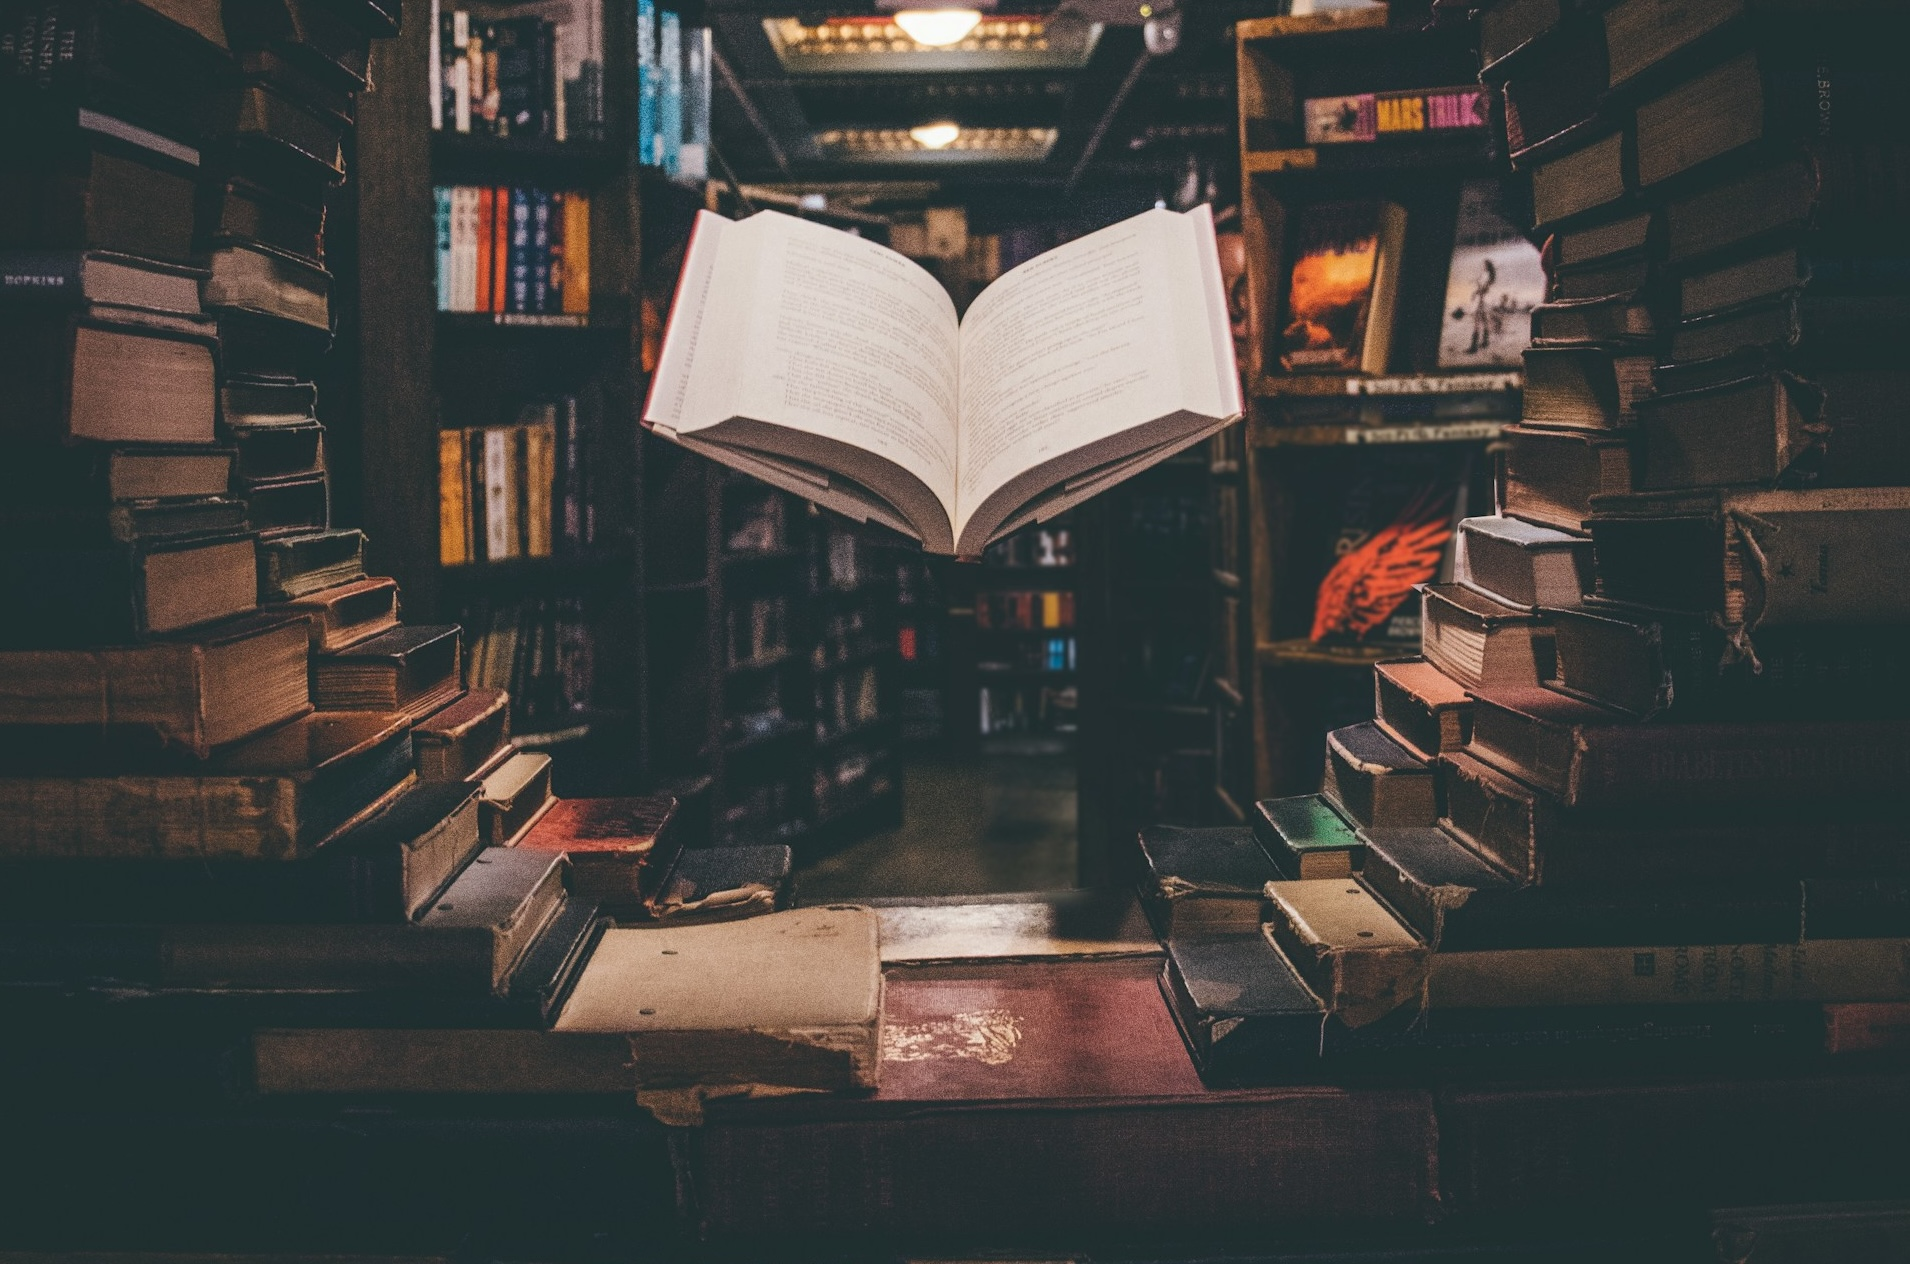
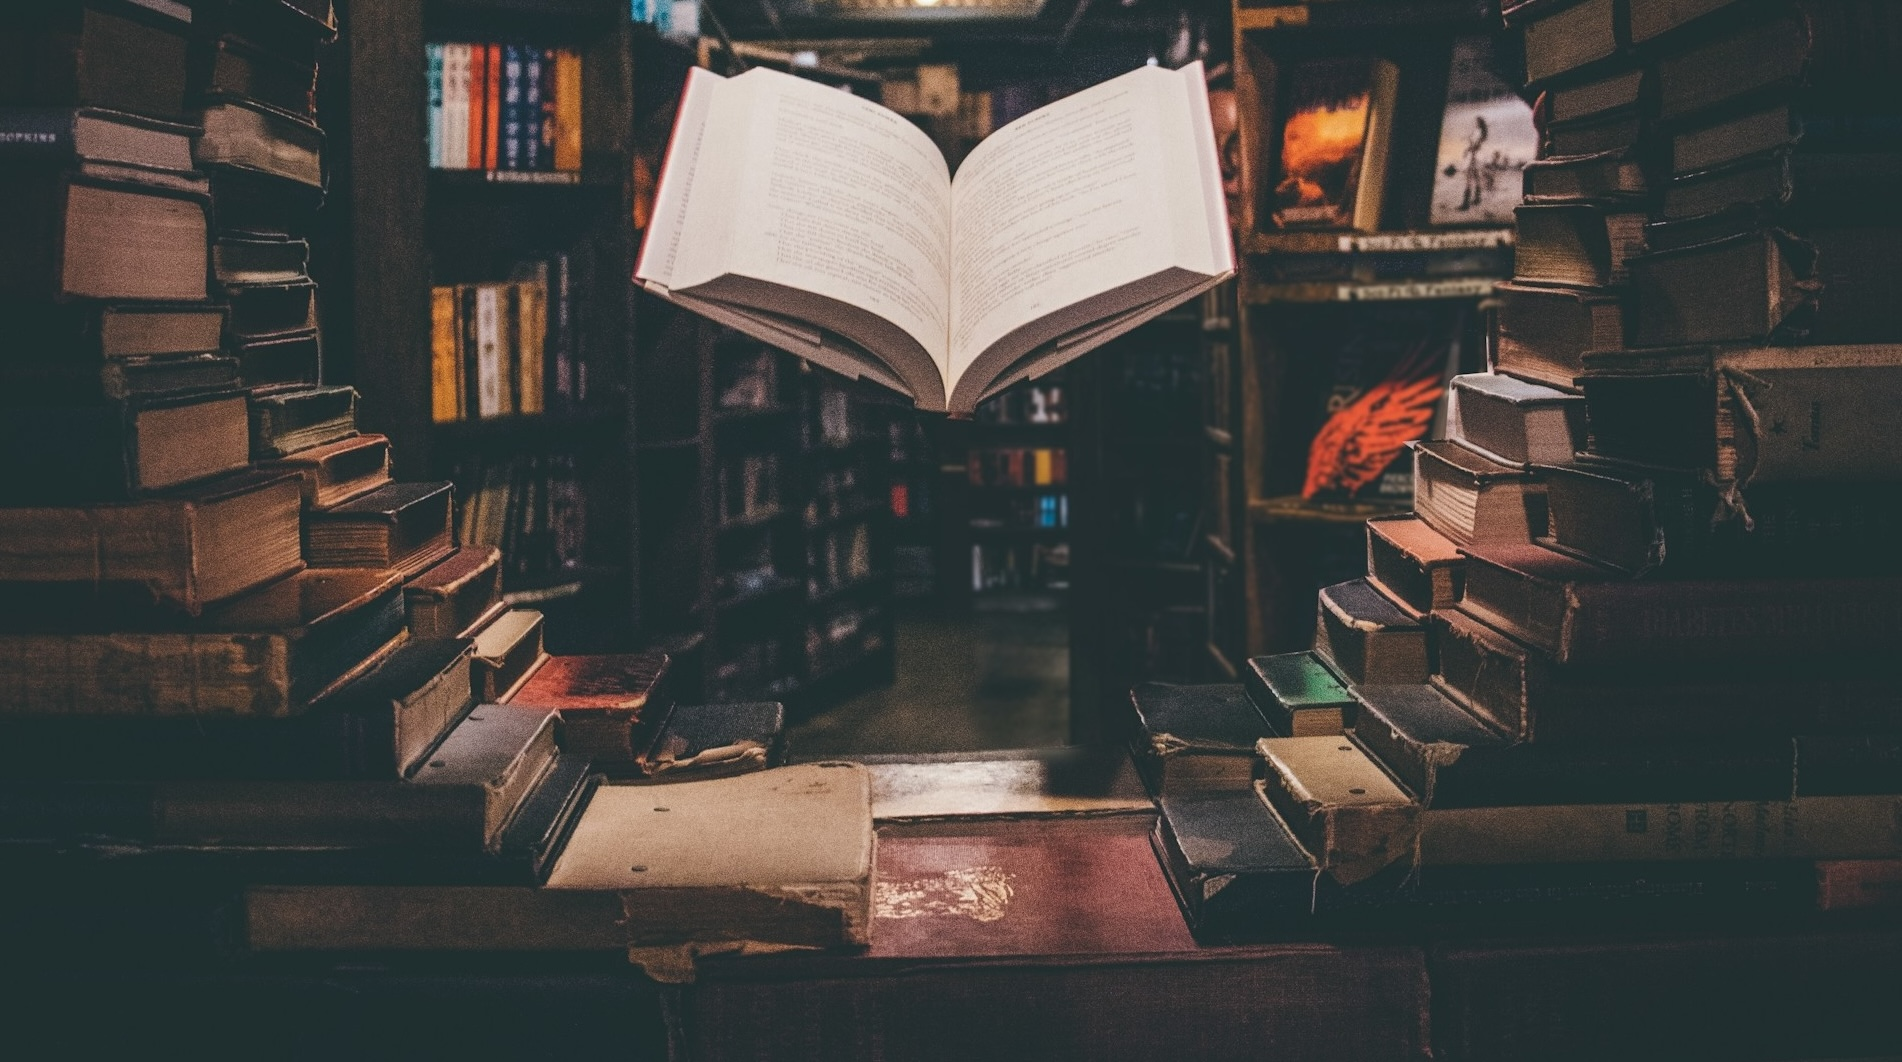
more styling added to form

diff --git a/src/index.css b/src/index.css
@@ -25,14 +25,15 @@ body {
 .header {
   background-image: url(assets/bedtimeheader.jpg);
   background-size: cover;
-  height: 400px;
+  background-position: top;
+  height: 350px;
   display: flex;
   align-items: center;
   justify-content: center;
 }
 
 .QuestionForm {
-  margin: 1em;
+  margin: 1.25em;
 }
 
 .question {
@@ -42,9 +43,8 @@ body {
 h1 {
   color: #d2c1b7;
   font-family: "Abril Fatface", serif;
-
   font-size: 2.5em;
-  padding: 0.75em;
+  padding: 0 0.75em;
   text-align: center;
 }
 
@@ -56,6 +56,47 @@ h2 {
 
 p {
   font-family: "Montserrat", sans-serif;
-  font-weight: 400;
+  font-size: 1em;
+}
+
+textarea,
+select,
+button {
+  width: 100%;
+  background-color: #6a3e38;
+  font-family: "Montserrat", sans-serif;
+  font-size: 1em;
+  color: #d2c1b7;
+  cursor: pointer;
+  border: none;
+  padding: 0.25em;
+}
+
+.radioButton {
+  padding: 0.25em 0;
+}
+
+.submitButton {
+  margin: 1em 0;
+  padding: 0.25em 0;
+  font-size: 1.5em;
+  font-weight: 700;
+  cursor: pointer;
+  border: none;
+  border-radius: 20px;
+  box-shadow: 2px 2px 4px rgba(0, 0, 0, 0.2);
+}
+
+.radioButton input {
+  cursor: pointer;
+}
+
+/* .radioButton input:checked {
+  background-color: #6a3e38;
+} */
+
+label {
+  padding-left: 0.5em;
+  color: #6a3e38;
   font-size: 1em;
 }

diff --git a/src/assets/components/Location.jsx b/src/assets/components/Location.jsx
@@ -1,12 +1,10 @@
-
 // eslint-disable-next-line react/prop-types
 export function Location({ value, onChange }) {
-
-
   return (
-    <div className="ChooseLocation">
+    <div className="chooseLocation">
       <h2 className="question">Choose where you want to start your story?</h2>
-      <div className="RadioButtons">
+
+      <div className="radioButton">
         <input
           type="radio"
           name="location"
@@ -16,6 +14,8 @@ export function Location({ value, onChange }) {
           className="radio"
         />
         <label>Forest</label>
+      </div>
+      <div className="radioButton">
         <input
           type="radio"
           name="location"
@@ -25,6 +25,9 @@ export function Location({ value, onChange }) {
           className="radio"
         />
         <label>A far far away kingdom</label>
+      </div>
+
+      <div className="radioButton">
         <input
           type="radio"
           name="location"

diff --git a/src/assets/components/Questions.jsx b/src/assets/components/Questions.jsx
@@ -40,14 +40,12 @@ export function Questions() {
   return (
     <div>
       {!submitted ? (
-
         <form onSubmit={handleSubmit} className="QuestionForm">
           <Charactername value={charactername} onChange={setCharactername} />
           <Location value={location} onChange={setLocation} />
           <Companion value={companion} onChange={setCompanion} />
           <Adventure value={adventure} onChange={setAdventure} />
           <SubmitButton onClick={() => setSubmitted(true)} />
-
         </form>
       ) : (
         <div>

diff --git a/src/assets/components/Companion.jsx b/src/assets/components/Companion.jsx
@@ -1,10 +1,7 @@
 import { companionsArray } from "./Arrays.jsx";
 
 // eslint-disable-next-line react/prop-types
-
 export const Companion = ({ value, onChange }) => {
-
-
   return (
     <div className="CompanionComponent">
       <h2 className="question">Who is your main character`s companion?</h2>
